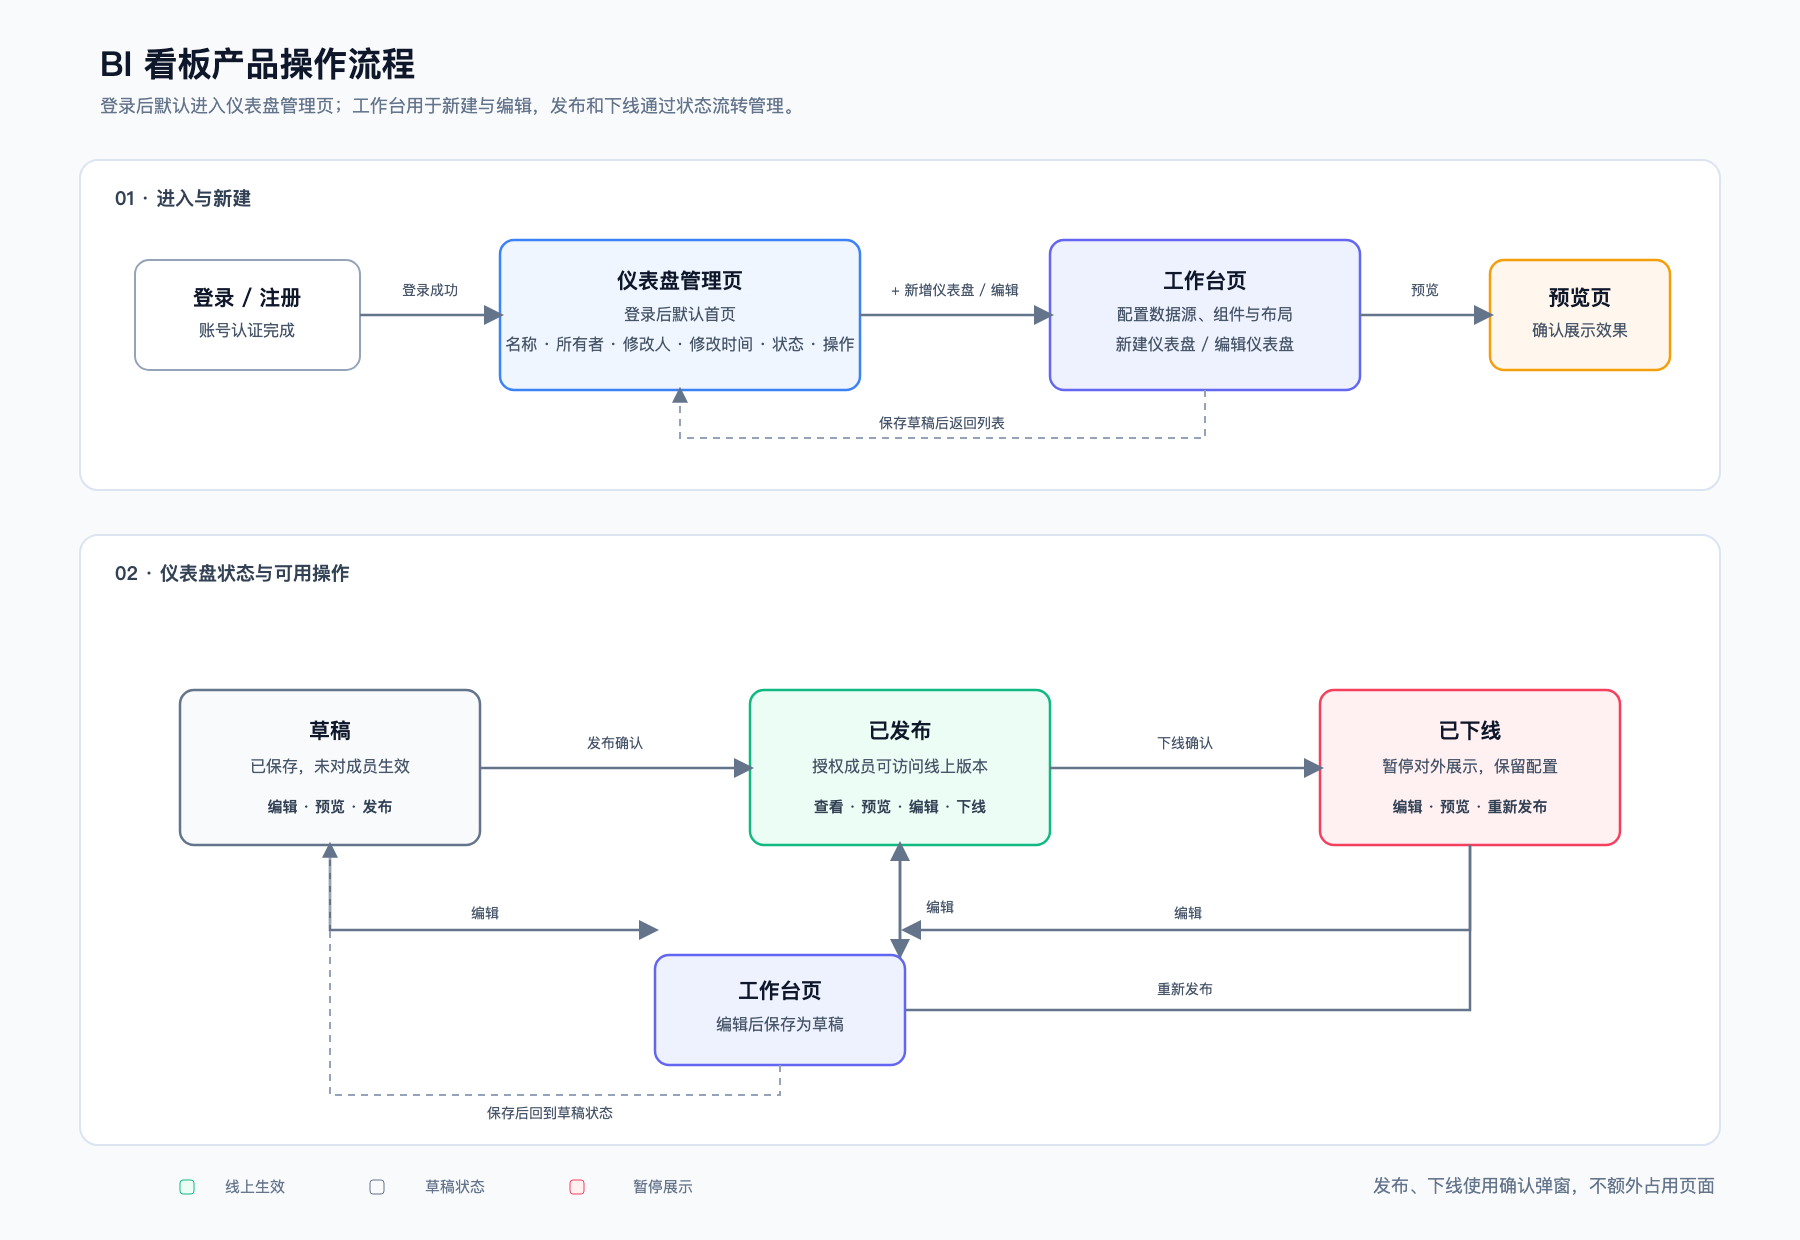
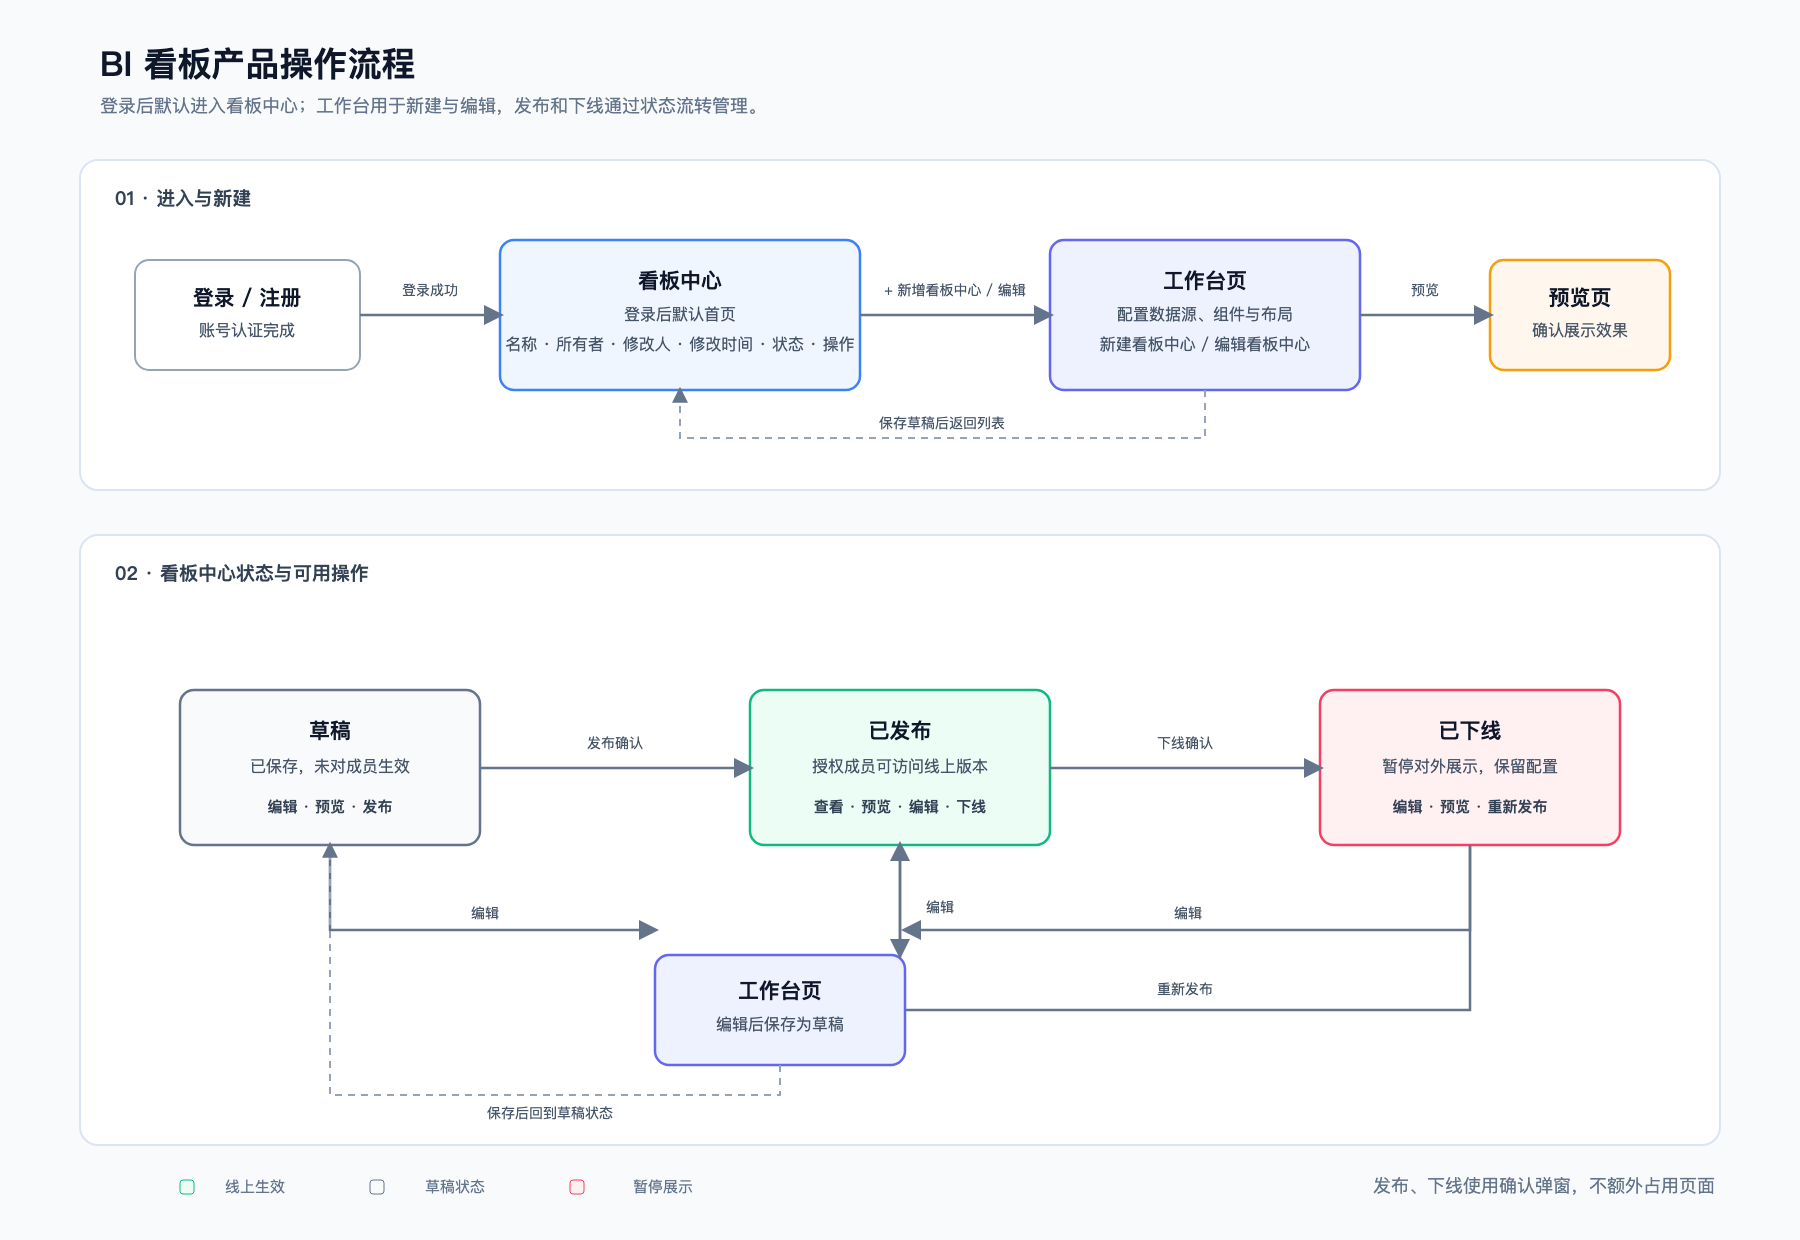
feat: 部分修改

diff --git a/packages/chart-renderer/src/DashboardComponentRenderer.test.tsx b/packages/chart-renderer/src/DashboardComponentRenderer.test.tsx
@@ -677,7 +677,8 @@ it("renders detail tables inside a polished data surface with row and column con
   render(<DashboardComponentRenderer component={component} fields={fields} rows={[{ field3: "1050G", field2: "PUBG G币", month: "2026-04" }]} />);
 
   expect(screen.getByTestId("detail-table-surface")).toBeTruthy();
-  expect(screen.getByText("明细表")).toBeTruthy();
+  expect(screen.queryByText("明细表")).toBeNull();
+  expect(screen.queryByText("订单明细表")).toBeNull();
   expect(screen.getAllByText("1 行").length).toBeGreaterThan(0);
   expect(screen.getAllByText("3 列").length).toBeGreaterThan(0);
 });

diff --git a/apps/web/src/features/editor/ComponentFrame.test.tsx b/apps/web/src/features/editor/ComponentFrame.test.tsx
@@ -123,7 +123,7 @@ describe("ComponentFrame", () => {
     expect(screen.getByRole("menuitem", { name: "复制" })).toBeInTheDocument();
     expect(screen.getByRole("menuitem", { name: "删除" })).toBeInTheDocument();
     expect(screen.getByRole("menuitem", { name: "刷新" })).toBeInTheDocument();
-    expect(screen.getByRole("menuitem", { name: "查看数据" })).toBeInTheDocument();
+    expect(screen.getByRole("menuitem", { name: "查看数据" })).toHaveAttribute("aria-disabled", "true");
   });
 
   it("shows a refresh-in-progress state before remounting the chart", async () => {

diff --git a/apps/web/src/features/editor/ComponentFrame.tsx b/apps/web/src/features/editor/ComponentFrame.tsx
@@ -138,7 +138,7 @@ export const ComponentFrame = ({ component, store, createComponentId, isInteract
     { key: "delete", label: "删除", danger: true },
     { type: "divider" },
     { key: "refresh", label: isRefreshing ? "正在刷新" : "刷新", disabled: isRefreshing },
-    { key: "view-data", label: "查看数据", disabled: dataResult === undefined },
+    { key: "view-data", label: "查看数据", disabled: true },
   ];
   const onMenuClick: MenuProps["onClick"] = ({ key, domEvent }) => {
     stopControlEvent(domEvent);

diff --git a/packages/chart-renderer/src/DashboardComponentRenderer.tsx b/packages/chart-renderer/src/DashboardComponentRenderer.tsx
@@ -2034,8 +2034,6 @@ export const DashboardComponentRenderer = ({
     return (
       <DataSurface
         testId="detail-table-surface"
-        eyebrow="明细表"
-        title={component.title ?? "明细表"}
         chips={[
           <SurfaceChip key="rows" tone="teal">{compactCount(model.rows.length, "行")}</SurfaceChip>,
           <SurfaceChip key="columns">{compactCount(model.columns.length, "列")}</SurfaceChip>,

diff --git a/README.md b/README.md
@@ -22,6 +22,20 @@ Run the web app without mocks, using `VITE_API_BASE_URL` for API requests:
 pnpm dev:web
 ```
 
+## Local Frontend and Backend
+
+Start the backend API service (default: `http://127.0.0.1:3000`):
+
+```bash
+pnpm --filter @drag-visual/api dev
+```
+
+In a second terminal, start the Vite frontend (default: `http://localhost:5173`):
+
+```bash
+pnpm --dir apps/web exec vite -- --port 5173
+```
+
 ## Frontend Verification
 
 Use these commands for the frontend release gate: